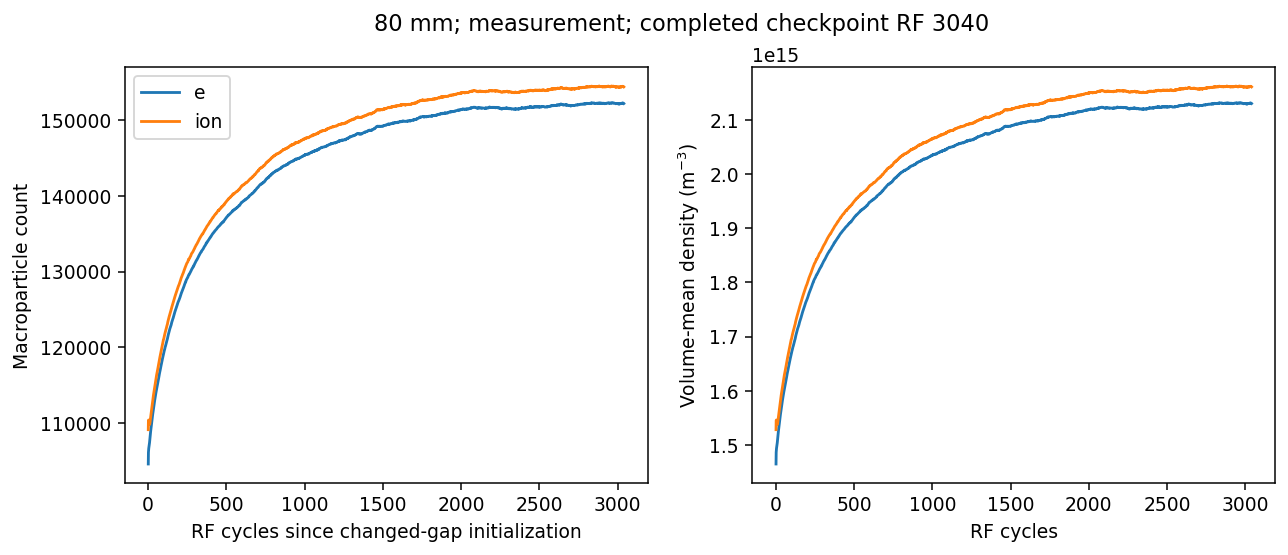
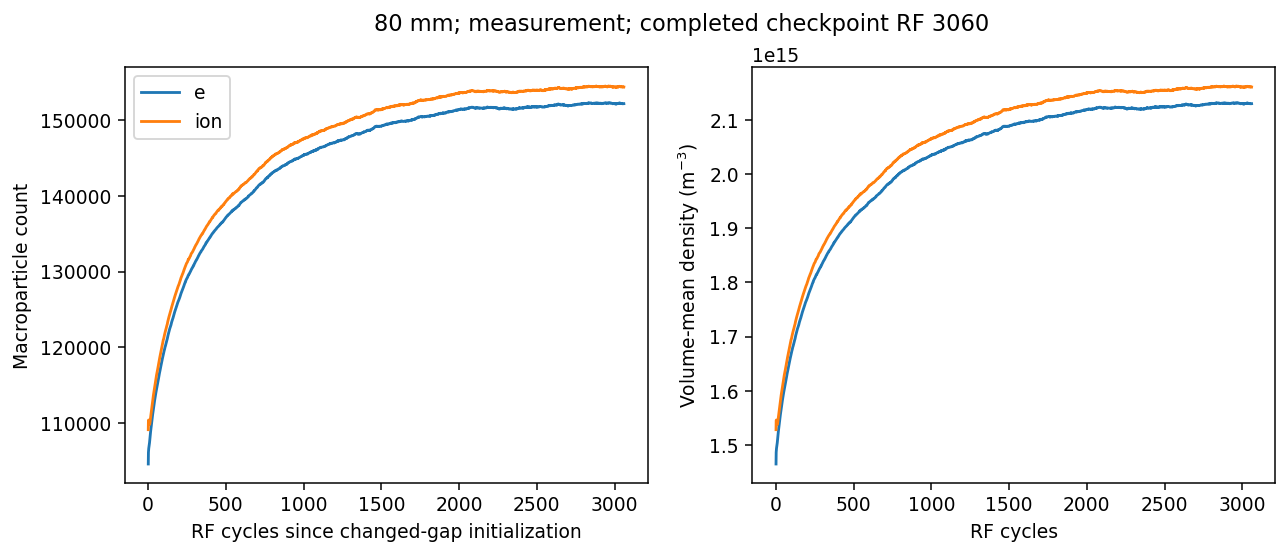
Save 261124_BRH_gap20-80_step5 simulation report and data

diff --git a/results/261124_BRH_gap20-80_step5/README.md b/results/261124_BRH_gap20-80_step5/README.md
@@ -2,7 +2,7 @@
 
 [전체 실행 목록](https://github.com/YGLSNU/eduPIC_PAL_RF-sheath) · [이 조건군](https://github.com/YGLSNU/eduPIC_PAL_RF-sheath/tree/results/20mTorr-topRF)
 
-**계산 중** · 실행일 2026-11-24 (한국 시각) · 변경 조건: **BRH · gap20/25/30/35/40/45/50/55/60/65/70/75/80 mm** · 보고서 갱신 2026-11-26T20:36:57+09:00
+**계산 중** · 실행일 2026-11-24 (한국 시각) · 변경 조건: **BRH · gap20/25/30/35/40/45/50/55/60/65/70/75/80 mm** · 보고서 갱신 2026-11-26T20:53:52+09:00
 
 250 V에서 gap만 바꾸며 넓은 에너지 분포와 충돌을 포함한 전자 왕복·위상 재현성·signed field work를 비교합니다. 아래는 마지막 완결 블록의 저장 기록입니다. 진행 중인 gap의 결과 및 BRH 여부를 최종값으로 해석하지 않습니다. 2026-11-26 사용자 지시로 75 mm RF2500, 80 mm RF2420에서 재개합니다. 20–70 mm의 종료 결과를 유지하고 80 mm 일시중단을 해제했습니다. 100·120 mm는 중단 상태를 유지합니다. 기존 측정 상한1000RF 및 물리 조건은 유지합니다. 복원 전 개별 native 블록이 없어 누적 평균·원시 counts와 재개 후 구간의 불확실도를 구분합니다. 인계 연구 목적은 BRH의 gap 의존성과 순가열 최대점 평가입니다. 50 mm에서 무충돌 약1 RF 연속 왕복이 가장 많았다는 인계 관찰은 가열 peak 확정과 구분하며, 원 분석 파일은 현재 환경에서 재확인되지 않았습니다. 이 보고서의 기본1T 후보 표는 충돌을 포함하므로 무충돌 연속 왕복 통계와 대상을 구분합니다. 순가열량의 통계 오차로 BRH 가열 peak는 아직 미확정입니다. 47.5·52.5 mm 추가 계산은 제안 단계이며 승인 범위에 포함하지 않습니다. 기존 실행 재사용: 25, 30, 40, 50, 60, 80 mm. 새 계산: 75, 80 mm. 재사용 조건의 원 실행일·상한/소멸 상태를 유지합니다.
 
@@ -42,7 +42,7 @@
 | 65 | 측정 상한·기준 미충족 | 2800 | 1000 | 1.943e+15 | [그림·다운로드](65mm/README.md) |
 | 70 | 측정 상한·기준 미충족 | 3051 | 1000 | 2.002e+15 | [그림·다운로드](70mm/README.md) |
 | 75 | 측정 상한·기준 미충족 | 2800 | 1000 | 2.058e+15 | [그림·다운로드](75mm/README.md) |
-| 80 | 계산 중 | 3040 | 840 | 2.126e+15 | [그림·다운로드](80mm/README.md) |
+| 80 | 계산 중 | 3060 | 840 | 2.126e+15 | [그림·다운로드](80mm/README.md) |
 
 ## 자료 범위
 

diff --git a/results/261124_BRH_gap20-80_step5/75mm/README.md b/results/261124_BRH_gap20-80_step5/75mm/README.md
@@ -2,7 +2,7 @@
 
 [전체 실행 목록](https://github.com/YGLSNU/eduPIC_PAL_RF-sheath) · [이 조건군](https://github.com/YGLSNU/eduPIC_PAL_RF-sheath/tree/results/20mTorr-topRF) · [실행 비교](https://github.com/YGLSNU/eduPIC_PAL_RF-sheath/blob/results/20mTorr-topRF/results/261124_BRH_gap20-80_step5/README.md)
 
-**측정 상한·기준 미충족** · 실행일 2026-11-24 (한국 시각) · 변경 조건: **BRH gap 75 mm** · 보고서 갱신 2026-11-26T20:36:57+09:00
+**측정 상한·기준 미충족** · 실행일 2026-11-24 (한국 시각) · 변경 조건: **BRH gap 75 mm** · 보고서 갱신 2026-11-26T20:53:52+09:00
 
 Measurement cap reached; background/BRH criteria not all satisfied. Retain checkpoint for extension. GitHub의 입자·UID·MCC optical depth·RNG 상태와 누적 원시 counts를 복원했습니다. 이전 개별 20RF native 행렬은 백업되지 않아 누적 평균/사건 통계는 합치되 블록 불확실도는 재개 후 구간에서 별도 평가합니다. 검출된 상부 기준 왕복 135918개, 고유 UID 17715개. 위상 반복 후보 1개(고유 UID 1개). 검출 왕복 중 후보 비율 0.001%. 후보의 평균 signed field work -4.764 eV/왕복. 충돌을 합친 후보의 순 운동에너지 변화 -4.768 eV/왕복. 전체 전자의 BRH 밀도 분율이 아닙니다. 탐색 진단. 반복 위상와 signed work를 gap 간 비교하고 격자·seed·정의 민감도를 확인하기 전 BRH 확정으로 해석하지 않습니다.
 

diff --git a/results/261124_BRH_gap20-80_step5/comparison/README.md b/results/261124_BRH_gap20-80_step5/comparison/README.md
@@ -2,7 +2,7 @@
 
 [전체 실행 목록](https://github.com/YGLSNU/eduPIC_PAL_RF-sheath) · [이 조건군](https://github.com/YGLSNU/eduPIC_PAL_RF-sheath/tree/results/20mTorr-topRF) · [실행 비교](https://github.com/YGLSNU/eduPIC_PAL_RF-sheath/blob/results/20mTorr-topRF/results/261124_BRH_gap20-80_step5/README.md)
 
-**계산 중** · 실행일 2026-11-24 (한국 시각) · 변경 조건: **BRH gap20–80 mm 비교** · 보고서 갱신 2026-11-26T20:36:57+09:00
+**계산 중** · 실행일 2026-11-24 (한국 시각) · 변경 조건: **BRH gap20–80 mm 비교** · 보고서 갱신 2026-11-26T20:53:52+09:00
 
 13개 계획 조건의 실제 상태와 확보된 측정만 비교합니다. 실행일은 원 계산 시작일이며 보고서 갱신일과 구분합니다. 기존 조건 재사용은 CSV의 reused_from_run·execution_date와 개별 보고서에 표시합니다. 모든 gap 완료·BRH 확정을 뜻하지 않습니다.
 
